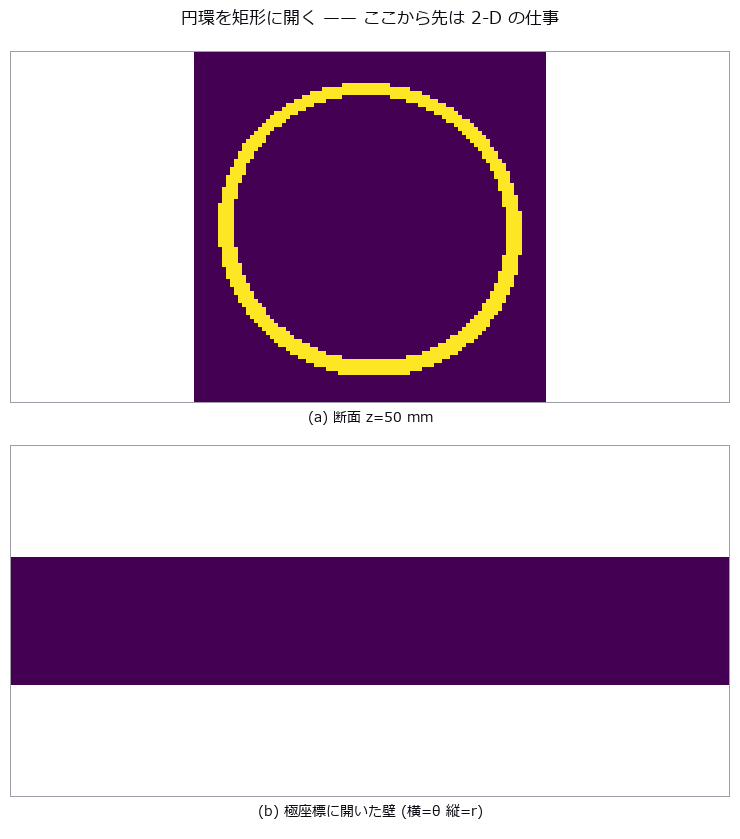
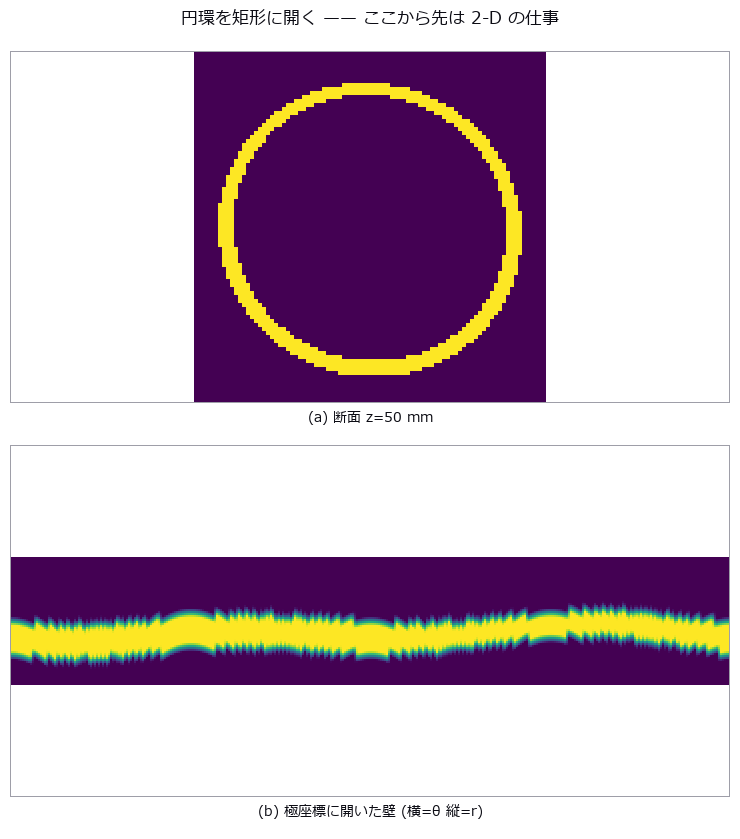
auto: poc_pipe_wall_loss.py 編集前 (2026-09-07 23:28)

Changed region(s): [[0.0, 0.7128, 0.9946, 0.8057]]

diff --git a/examples/poc_pipe_wall_loss.py b/examples/poc_pipe_wall_loss.py
@@ -443,8 +443,9 @@ def section_zero_point() -> dict:
     print("    楕円化は肉厚を 1 µm も変えていない(内外面に同じだけ効く)。")
 
     truth = loss_parts(sv_all["z_hit"], sv_all["th_hit"], FULL)["total"]
-    figs.save("map_truth", _big(truth), "真の減肉 [mm](縦 = z 0..%.0f mm、"
-              "横 = θ 0..360 度。正 = 肉が減った、溶接ビードは負)" % LZ,
+    figs.save("map_truth", _big(np.clip(truth, -1.6, 1.6)),
+              "真の減肉 [mm](縦 = z 0..%.0f mm、横 = θ 0..360 度。"
+              "±1.6 mm で切って塗った。正 = 肉が減った、溶接ビードは負)" % LZ,
               signed=True)
     figs.save("map_naive_aligned", _big(m0),
               "軸が合っているときの推定減肉 [mm](対照群 b)", signed=True)
